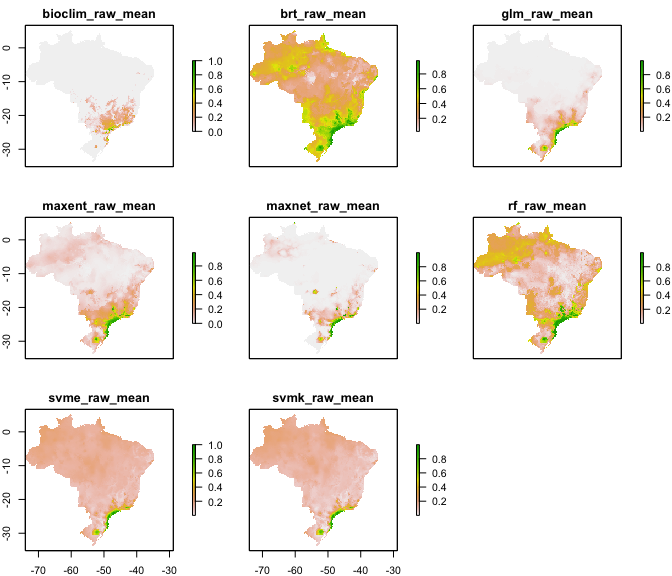
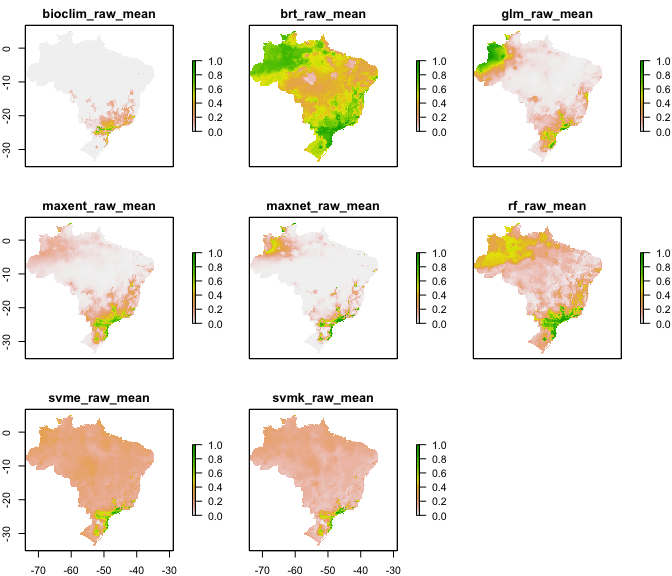
tests passing but: maxnet not working, seed also not working. example dataset needs clean_uni = TRUE. WIP.

diff --git a/README.md b/README.md
@@ -264,9 +264,9 @@ sdmdata_1sp <- setup_sdmdata(species_name = species[1],
                              buffer_type = "mean",
                              png_sdmdata = TRUE,
                              n_back = 500,
-                             clean_dupl = FALSE,
-                             clean_uni = FALSE,
-                             clean_nas = FALSE,
+                             clean_dupl = TRUE,
+                             clean_uni = TRUE,
+                             clean_nas = TRUE,
                              geo_filt = FALSE,
                              geo_filt_dist = 10,
                              select_variables = TRUE,
@@ -275,8 +275,11 @@ sdmdata_1sp <- setup_sdmdata(species_name = species[1],
 #> metadata file found, checking metadata
 #> running data setup
 #> cleaning data
-#> 0 points removed
-#> 104 clean points
+#> cleaning duplicates
+#> cleaning occurrences with no environmental data
+#> cleaning occurrences within the same pixel
+#> 5 points removed
+#> 99 clean points
 #> creating buffer
 #> Applying buffer
 #> Warning in RGEOSDistanceFunc(spgeom1, spgeom2, byid, "rgeos_distance"): Spatial
@@ -366,36 +369,35 @@ Calling `do_many()` and setting `bioclim = TRUE` is therefore equivalent
 to call `do_any()` and set `algorithm = "bioclim"`.
 
 ``` r
-sp_maxnet <- do_any(species_name = species[1],
-                    algorithm = "maxnet",
+sp_maxent <- do_any(species_name = species[1],
+                    algorithm = "maxent",
                     predictors = example_vars,
                     models_dir = test_folder,
                     png_partitions = TRUE,
                     write_bin_cut = FALSE,
-                    equalize = TRUE)
+                    equalize = TRUE,
+                    write_rda = TRUE)
 ```
 
 The resulting object is a table with the performance metrics, but the
 actual output is written on disk
 
 ``` r
-sp_maxnet
+sp_maxent
 #>                kappa spec_sens no_omission prevalence equal_sens_spec
-#> thresholds 0.5373581  0.246518  0.04513295  0.1737146       0.2543898
+#> thresholds 0.5531638 0.4229991   0.2646903  0.1707383       0.3903203
 #>            sensitivity         species_name algorithm run partition presencenb
-#> thresholds   0.2721152 Abarema_langsdorffii    maxent   1         1         21
-#>            absencenb correlation   pvaluecor       AUC AUC_pval AUCratio
-#> thresholds       100   0.7284402 2.83905e-21 0.9395238       NA 1.879048
-#>                pROC pROC_pval   TSSmax  KAPPAmax dismo_threshold
-#> thresholds 1.739945         0 0.832381 0.7507724       spec_sens
-#>            prevalence.value   PPP      NPP      TPR  TNR  FPR        FNR
-#> thresholds        0.1735537 0.625 0.988764 0.952381 0.88 0.12 0.04761905
-#>                 CCR     Kappa  F_score   Jaccard
-#> thresholds 0.892562 0.6896824 0.754717 0.6060606
+#> thresholds   0.3241391 Abarema_langsdorffii    maxent   1         1         20
+#>            absencenb correlation    pvaluecor    AUC AUC_pval AUCratio     pROC
+#> thresholds       100   0.7481386 9.306951e-23 0.9715       NA    1.943 1.882757
+#>            pROC_pval TSSmax  KAPPAmax dismo_threshold prevalence.value  PPP
+#> thresholds         0   0.83 0.8043478       spec_sens        0.1666667 0.72
+#>                  NPP TPR  TNR  FPR FNR   CCR     Kappa F_score   Jaccard
+#> thresholds 0.9789474 0.9 0.93 0.07 0.1 0.925 0.7545455     0.8 0.6666667
 ```
 
-The following lines call for bioclim, GLM, maxnet, random forests and
-smvk (from package **kernlab**)
+The following lines call for bioclim, GLM, random forests, BRT, svme
+(from package **e1071**), and smvk (from package **kernlab**)
 
 ``` r
 many <- do_many(species_name = species[1],
@@ -409,7 +411,8 @@ many <- do_many(species_name = species[1],
                 glm = TRUE,
                 svmk = TRUE,
                 svme = TRUE,
-                maxnet = TRUE,
+                maxent = FALSE,
+                maxnet = FALSE,
                 rf = TRUE,
                 mahal = FALSE,
                 brt = TRUE,
@@ -491,57 +494,6 @@ final_model(species_name = species[1],
             consensus_level = 0.5,
             uncertainty = TRUE,
             overwrite = TRUE)
-#> Abarema_langsdorffii
-#> Reading evaluation files for Abarema_langsdorffii in present
-#> Extracting data for Abarema_langsdorffii bioclim
-#> Reading models from .tif files
-#> 5 / 5 partitions will be used for Abarema_langsdorffii bioclim
-#> Standardizing models from 0 to 1
-#> selected final models for Abarema_langsdorffii bioclim DONE
-#> Writing models bioclim
-#> Extracting data for Abarema_langsdorffii brt
-#> Reading models from .tif files
-#> 5 / 5 partitions will be used for Abarema_langsdorffii brt
-#> Standardizing models from 0 to 1
-#> selected final models for Abarema_langsdorffii brt DONE
-#> Writing models brt
-#> Extracting data for Abarema_langsdorffii glm
-#> Reading models from .tif files
-#> 5 / 5 partitions will be used for Abarema_langsdorffii glm
-#> Standardizing models from 0 to 1
-#> selected final models for Abarema_langsdorffii glm DONE
-#> Writing models glm
-#> Extracting data for Abarema_langsdorffii maxent
-#> Reading models from .tif files
-#> 5 / 5 partitions will be used for Abarema_langsdorffii maxent
-#> Standardizing models from 0 to 1
-#> selected final models for Abarema_langsdorffii maxent DONE
-#> Writing models maxent
-#> Extracting data for Abarema_langsdorffii rf
-#> Reading models from .tif files
-#> 5 / 5 partitions will be used for Abarema_langsdorffii rf
-#> Standardizing models from 0 to 1
-#> selected final models for Abarema_langsdorffii rf DONE
-#> Writing models rf
-#> Extracting data for Abarema_langsdorffii svme
-#> Reading models from .tif files
-#> 5 / 5 partitions will be used for Abarema_langsdorffii svme
-#> Standardizing models from 0 to 1
-#> selected final models for Abarema_langsdorffii svme DONE
-#> Writing models svme
-#> Extracting data for Abarema_langsdorffii svmk
-#> Reading models from .tif files
-#> 5 / 5 partitions will be used for Abarema_langsdorffii svmk
-#> Standardizing models from 0 to 1
-#> selected final models for Abarema_langsdorffii svmk DONE
-#> Writing models svmk
-#> Extracting data for Abarema_langsdorffii maxnet
-#> Reading models from .tif files
-#> 4 / 4 partitions will be used for Abarema_langsdorffii maxnet
-#> Standardizing models from 0 to 1
-#> selected final models for Abarema_langsdorffii maxnet DONE
-#> Writing models maxnet
-#> writing metadata
 ```
 
 `final_model()` creates a .tif file for each final.model (one per
@@ -590,16 +542,9 @@ ens <- ensemble_model(species_name = species[1],
                       which_final = "raw_mean",
                       models_dir = test_folder,
                       overwrite = TRUE) #argument from writeRaster
-#> [1] "Mon Oct 26 22:47:00 2020"
-#> Abarema_langsdorffii
-#> Reading mean evaluation files for Abarema_langsdorffii in present
-#> The best performing algorithm was bioclim according to pROC values
-#> Standardizing models from 0 to 1
-#> Calculating range
-#> Writing pngs
-#> writing metadata
+#> [1] "Tue Oct 27 17:26:39 2020"
 #> [1] "DONE!"
-#> [1] "Mon Oct 26 22:47:58 2020"
+#> [1] "Tue Oct 27 17:27:34 2020"
 ```
 
 ``` r
@@ -645,7 +590,7 @@ for (i in 1:length(example_occs)) {
           models_dir = "~/modleR_test/forlooptest",
           png_partitions = TRUE,
           bioclim = TRUE,
-          maxnet = TRUE,
+          maxnet = FALSE,
           rf = TRUE,
           svmk = TRUE,
           svme = TRUE,
@@ -707,7 +652,7 @@ species %>%
                        predictors = example_vars,
                        models_dir = "~/modleR_test/temp_purrr",
                        bioclim = TRUE,
-                       maxnet = TRUE,
+                       maxnet = FALSE,
                        rf = TRUE,
                        svme = TRUE,
                        svmk = TRUE,
